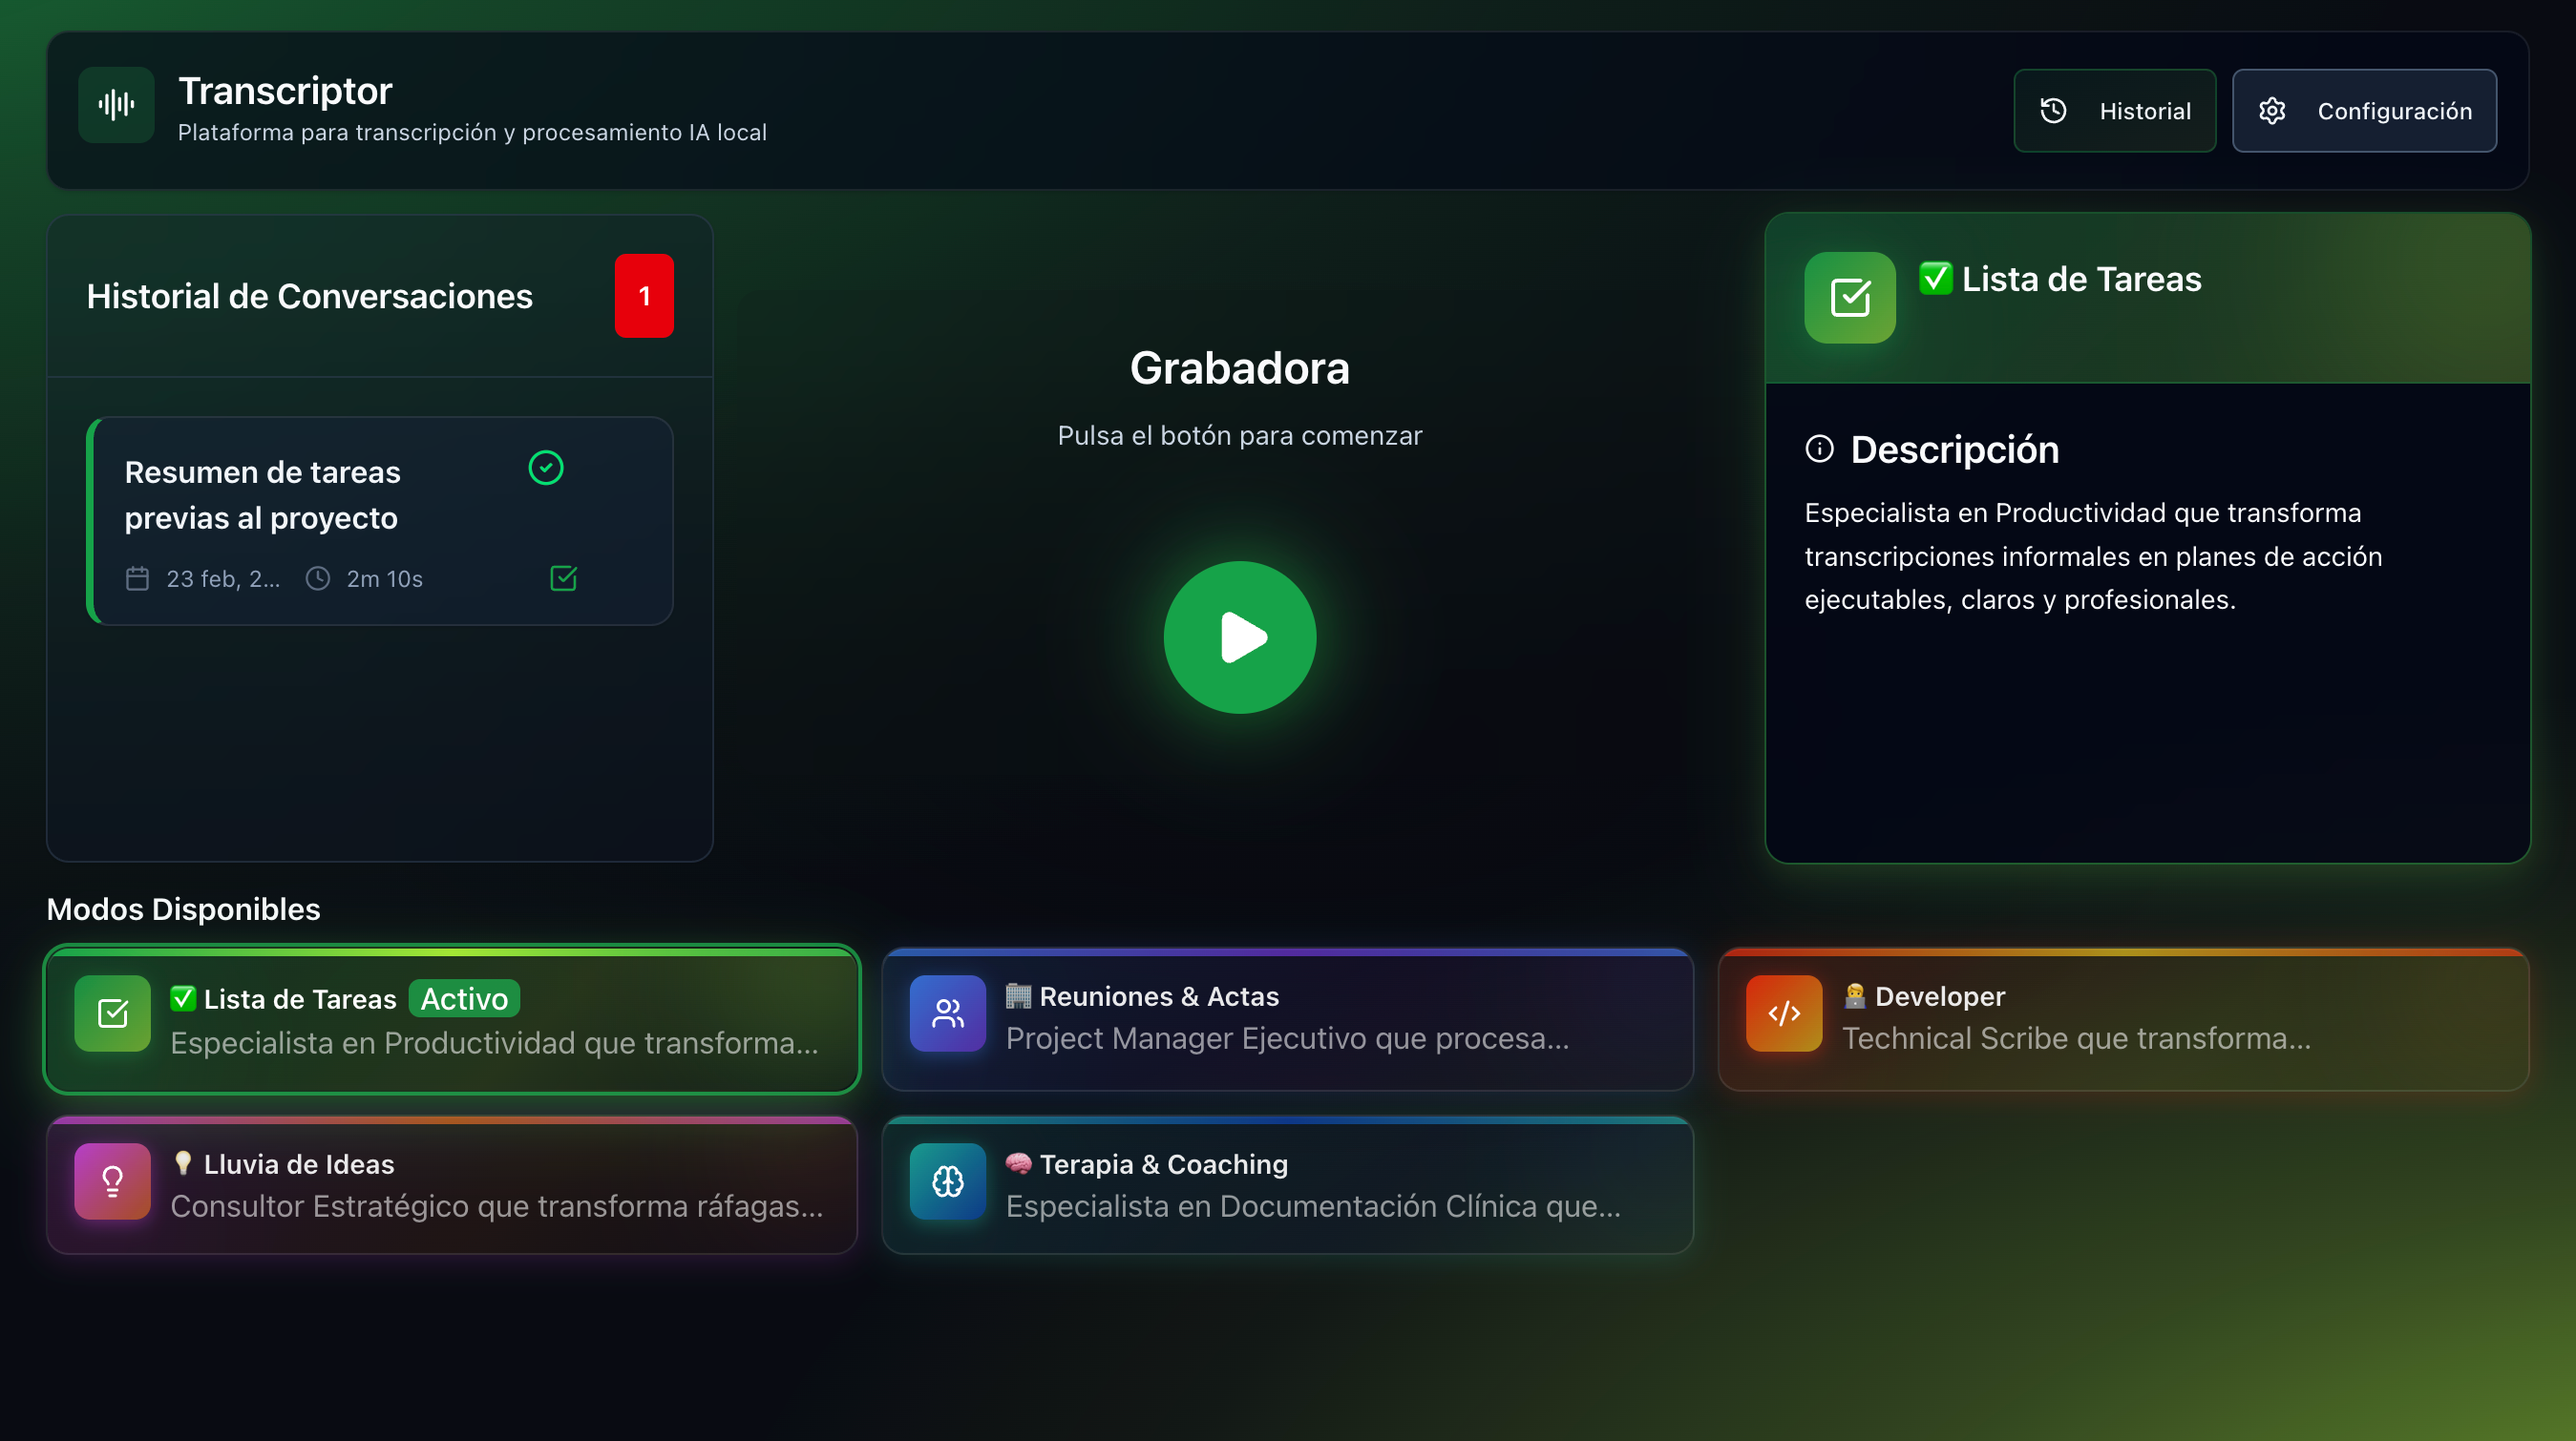
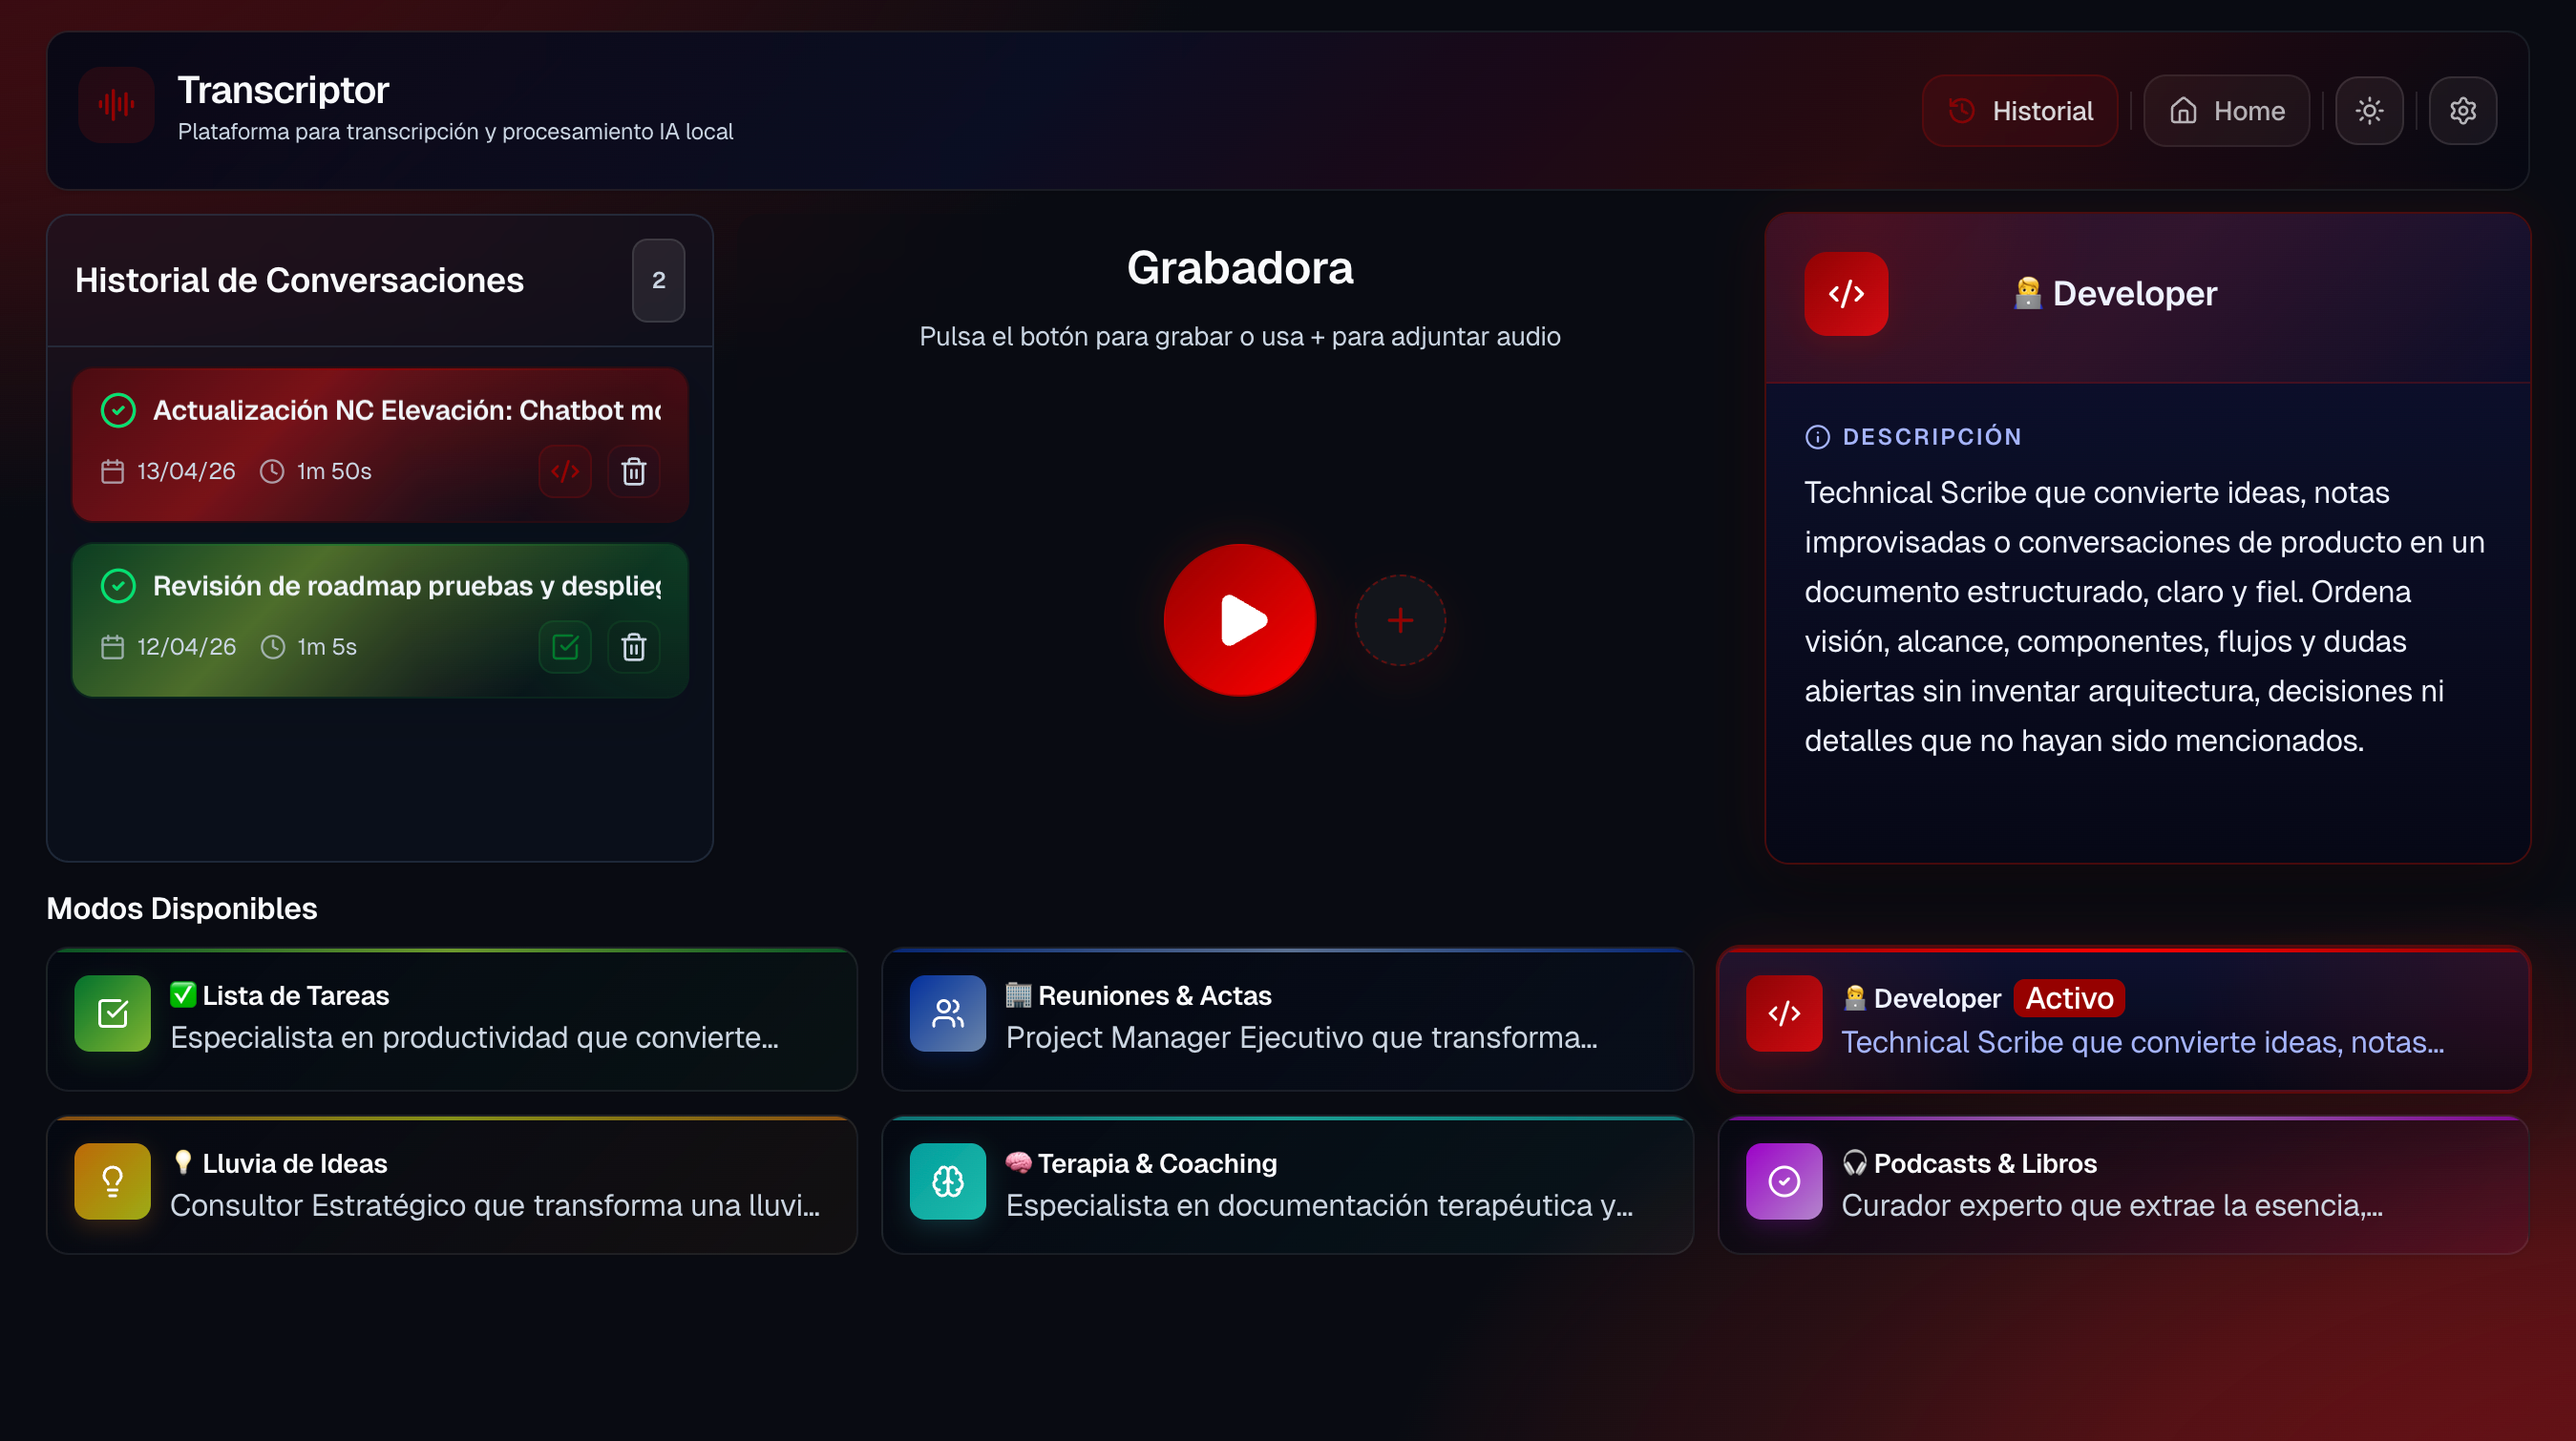
Actualizacion de ncelevacion e imagen del transcriptor

diff --git a/src/components/AppCard.tsx b/src/components/AppCard.tsx
@@ -26,7 +26,7 @@ interface AppCardProps {
 const categoryLabels: Record<AppItem['category'], string> = {
   ai: 'Inteligencia Artificial',
   blockchain: 'Blockchain',
-  enterprise: 'Empresarial',
+  enterprise: 'Web Comercial',
 }
 
 const categoryAccents: Record<AppItem['category'], { border: string; badge: string; glow: string }> = {
@@ -94,7 +94,7 @@ export function AppCard({ app, isAuthenticated, isLoading = false, onLogin }: Ap
         className={`group relative overflow-hidden rounded-3xl border bg-slate-900/40 backdrop-blur-sm transition-all duration-500 ${accent.border}`}
       >
         {/* Ambient glow */}
-        <div className={`pointer-events-none absolute -inset-24 bg-gradient-to-br ${accent.glow} opacity-60 blur-3xl transition-opacity duration-500 group-hover:opacity-100`} />
+        <div className={`pointer-events-none absolute -inset-24 bg-linear-to-br ${accent.glow} opacity-60 blur-3xl transition-opacity duration-500 group-hover:opacity-100`} />
 
         <div className="relative">
           {/* Header bar */}
@@ -158,7 +158,7 @@ export function AppCard({ app, isAuthenticated, isLoading = false, onLogin }: Ap
                     </motion.button>
                   </>
                 ) : (
-                  <div className="h-full min-h-[200px] w-full bg-gradient-to-br from-slate-800 via-slate-900 to-slate-950" />
+                  <div className="h-full min-h-50 w-full bg-linear-to-br from-slate-800 via-slate-900 to-slate-950" />
                 )}
               </div>
             </div>
@@ -200,7 +200,7 @@ export function AppCard({ app, isAuthenticated, isLoading = false, onLogin }: Ap
                   ) : isAuthenticated ? (
                     <a
                       href={app.url}
-                      className="inline-flex min-h-12 items-center gap-2 rounded-xl bg-gradient-to-r from-cyan-500 to-cyan-400 px-6 text-sm font-semibold text-slate-950 shadow-lg shadow-cyan-500/20 transition-all hover:shadow-cyan-500/40 hover:scale-[1.02] focus-visible:outline-2 focus-visible:outline-offset-2 focus-visible:outline-cyan-300"
+                      className="inline-flex min-h-12 items-center gap-2 rounded-xl bg-linear-to-r from-cyan-500 to-cyan-400 px-6 text-sm font-semibold text-slate-950 shadow-lg shadow-cyan-500/20 transition-all hover:shadow-cyan-500/40 hover:scale-[1.02] focus-visible:outline-2 focus-visible:outline-offset-2 focus-visible:outline-cyan-300"
                     >
                       Acceder a la aplicación
                       <ExternalLink aria-hidden="true" className="h-4 w-4" />

diff --git a/src/data/fallbackApps.ts b/src/data/fallbackApps.ts
@@ -8,10 +8,10 @@ export const fallbackApps: AppItem[] = [
     description:
       '**NcElevación** es una plataforma de venta online tecnológicamente diferencial, diseñada como distribuidor oficial de la prestigiosa marca **CLARK**.\n\nMás allá de ofrecer catálogos interactivos y comparadores avanzados de maquinaria, esta web integra un **asistente virtual (RAG)** de última generación que conoce en profundidad cada detalle de la empresa y las especificaciones técnicas de todos los productos del catálogo.\n\nEl mayor salto tecnológico es su **sistema de navegación inteligente**: la IA no solo responde, sino que detecta la verdadera necesidad del cliente y tiene la capacidad de **navegar por la web en nombre del usuario**. Esto puede hacerse pidiendo permiso de forma interactiva (modo asistente) o ejecutando acciones completas hasta encontrar el producto ideal (modo autónomo).\n\nUn salto hacia el futuro del B2B y la venta industrial, donde la tecnología local se pone al completo servicio del usuario final.',
     tech: ['IA Autónoma', 'RAG', 'Catálogo Inteligente', 'Asistente Virtual', 'Agentes Reactivos'],
-    url: 'https://ncelevacion.dev.tanian.net/',
+    url: 'https://ncelevacion.com/',
     category: 'enterprise',
     image_url: '/assets/nc-elevacion.png',
-    status: 'offline',
+    status: 'online',
   },
   {
     id: 'rag-juridico',

diff --git a/api/index.py b/api/index.py
@@ -59,7 +59,7 @@ MOCK_APPS: list[AppSchema] = [
             "Un salto hacia el futuro del B2B y la venta industrial, donde la tecnología local se pone al completo servicio del usuario final."
         ),
         tech=["IA Autónoma", "RAG", "Catálogo Inteligente", "Asistente Virtual", "Agentes Reactivos"],
-        url="https://ncelevacion.dev.tanian.net/",
+        url="https://ncelevacion.com/",
         category=AppCategory.enterprise,
         status=AppStatus.online,
         image_url="/assets/nc-elevacion.png",
